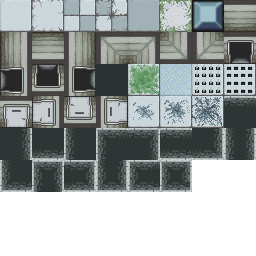
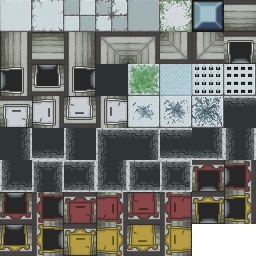
Made some door sprites for treasure and boss rooms

Changed region(s): [[0.0, 0.625, 1.0, 1.0]]

diff --git a/src/level.c b/src/level.c
@@ -2156,11 +2156,17 @@ void level_draw_room(Room* room, RoomFileData* room_data, float xoffset, float y
         if(aroom != NULL)
         {
             if(aroom->type == ROOM_TYPE_TREASURE)
+            {
                 dcolor = aroom->color;
+            }
             else if(aroom->type == ROOM_TYPE_SHRINE)
+            {
                 dcolor = aroom->color;
+            }
             else if(aroom->type == ROOM_TYPE_BOSS)
+            {
                 dcolor = aroom->color;
+            }
             // else if(aroom->type == ROOM_TYPE_SHOP)
             //     dcolor = aroom->color;
         }
